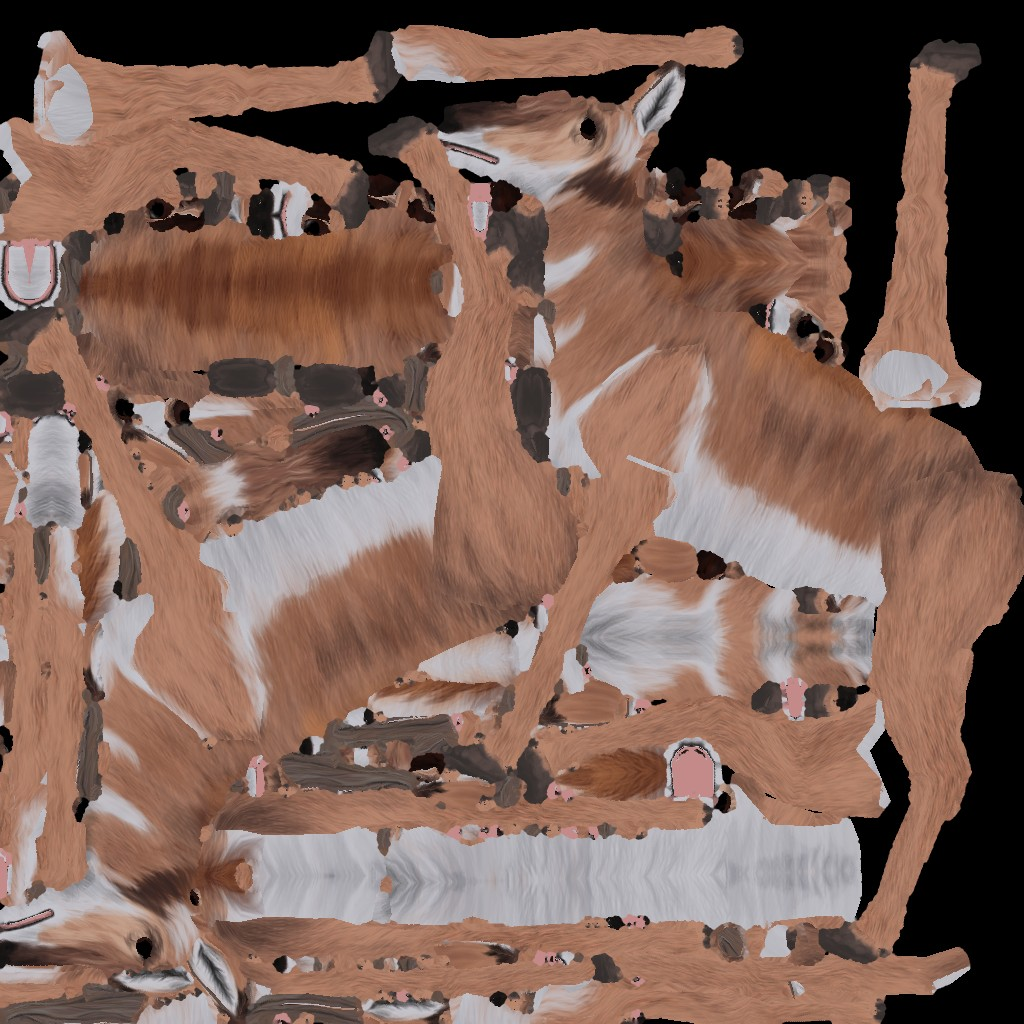
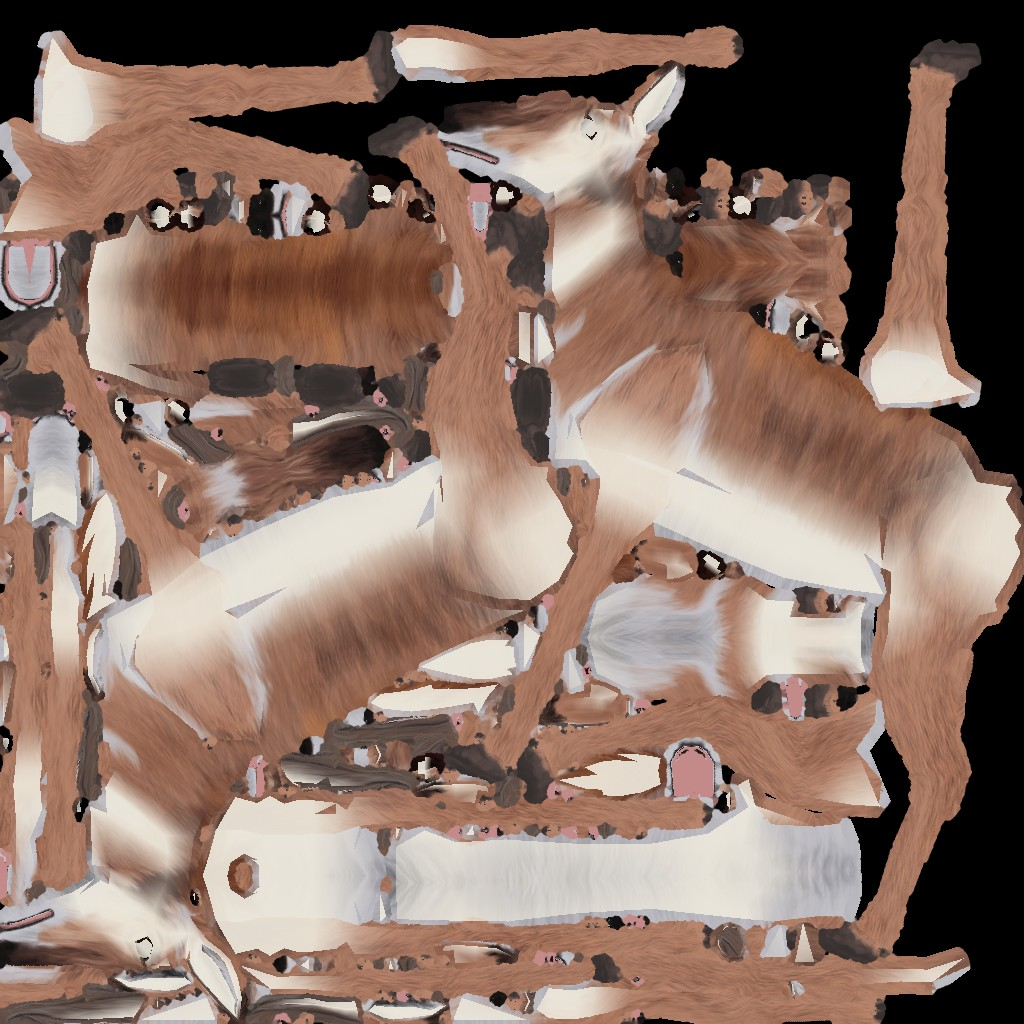
a3: default set is bison, wolf, pronghorn, mule deer (coyote and cougar off until tuned); pronghorn white rump, belly and throat bands painted into the albedo; a3n probe flag

diff --git a/src/render/models/a3.ts b/src/render/models/a3.ts
@@ -31,10 +31,14 @@ export function a3Enabled(): boolean {
   return v === null || v !== '0';
 }
 
-/** The species a3 applies to for this page: `?a3=1` all of them, `?a3=bison,wolf` a list. */
+/** On by default; the coyote and cougar stay off until their gallop is tuned (turn them on with `?a3=all` or by name). */
+export const A3_DEFAULT = ['bison', 'wolf', 'pronghorn', 'muledeer'];
+
+/** The species a3 applies to for this page: no parameter, the default set; `?a3=1` or `all` every species with an asset; `?a3=bison,wolf` a list. */
 function wanted(): string[] {
   if (!a3Enabled()) return [];
-  const v = new URLSearchParams(location.search).get('a3') ?? '1';
+  const v = new URLSearchParams(location.search).get('a3');
+  if (v === null) return A3_DEFAULT;
   return v === '1' || v === 'all' ? A3_SPECIES : v.split(',').filter((s) => A3_SPECIES.includes(s));
 }
 
@@ -61,7 +65,8 @@ async function loadOne(key: string): Promise<void> {
   map.generateMipmaps = true;
   map.minFilter = THREE.LinearMipmapLinearFilter;
   let normalMap: THREE.Texture | null = null;
-  if (meta.normal) {
+  const flags = new URLSearchParams(location.search);
+  if (meta.normal && flags.get('a3n') !== '0') { // (?a3n=0: no normal map, a cost probe)
     normalMap = await load(base + meta.normal);
     normalMap.anisotropy = 8;
   }

diff --git a/tools/label_animal.py b/tools/label_animal.py
@@ -230,9 +230,55 @@ for nm, a, c in arrays:
 idx_off = len(blob)
 blob += tris.astype(np.uint16).reshape(-1).tobytes()
 open(os.path.join(out_dir, sp + '.bin'), 'wb').write(blob)
+
+def paint_albedo(im, regions):
+    """Paint white markings (cfg 'paint') into the albedo: a weight per vertex from its final position and normal, rasterised through the uv
+    triangles (so the marking follows the surface). Used for the pronghorn's rump patch, belly and throat bands, which the source lacks."""
+    sm = lambda a, b, x: np.clip((x - a) / (b - a), 0, 1) ** 2 * (3 - 2 * np.clip((x - a) / (b - a), 0, 1))
+    x, y, z = pos[:, 0], pos[:, 1], pos[:, 2]
+    w = np.zeros(n)
+    for r in regions:
+        k = r['kind']
+        if k == 'rump':
+            w = np.maximum(w, sm(r['x0'], r['x1'], x) * sm(r['y0'], r['y1'], y))
+        elif k == 'belly':
+            w = np.maximum(w, sm(r['y0'], r['y1'], y) * sm(r['xa0'], r['xa1'], x) * sm(r['xb0'], r['xb1'], x) * sm(r.get('yl0', -1), r.get('yl1', -0.9), y))
+        elif k == 'band':
+            ax, ay = r['axis']; px_, py_ = r['origin']
+            t = (x - px_) * ax + (y - py_) * ay
+            under = sm(r.get('n0', 0.45), r.get('n1', 0.0), nrm[:, 1])
+            w = np.maximum(w, sm(r['t0'] - r['soft'], r['t0'], t) * sm(r['t1'] + r['soft'], r['t1'], t) * under)
+    a = np.asarray(im, np.float32) / 255.0
+    W_, H_ = im.size
+    mask = np.zeros((H_, W_), np.float32)
+    uvp = uv / WS if WP else uv
+    for tri in tris:
+        P = np.stack([uvp[tri, 0] * W_, (1 - uvp[tri, 1]) * H_], 1)
+        x0, x1 = int(np.floor(P[:, 0].min())), int(np.ceil(P[:, 0].max()))
+        y0, y1 = int(np.floor(P[:, 1].min())), int(np.ceil(P[:, 1].max()))
+        if x1 <= x0 or y1 <= y0:
+            continue
+        xs, ys = np.meshgrid(np.arange(x0, x1 + 1) + 0.5, np.arange(y0, y1 + 1) + 0.5)
+        d = (P[1, 1] - P[2, 1]) * (P[0, 0] - P[2, 0]) + (P[2, 0] - P[1, 0]) * (P[0, 1] - P[2, 1])
+        if abs(d) < 1e-9:
+            continue
+        l0 = ((P[1, 1] - P[2, 1]) * (xs - P[2, 0]) + (P[2, 0] - P[1, 0]) * (ys - P[2, 1])) / d
+        l1 = ((P[2, 1] - P[0, 1]) * (xs - P[2, 0]) + (P[0, 0] - P[2, 0]) * (ys - P[2, 1])) / d
+        l2 = 1 - l0 - l1
+        inside = (l0 >= -0.02) & (l1 >= -0.02) & (l2 >= -0.02)
+        val = l0 * w[tri[0]] + l1 * w[tri[1]] + l2 * w[tri[2]]
+        xi = np.clip(xs.astype(int), 0, W_ - 1); yi = np.clip(ys.astype(int), 0, H_ - 1)
+        cur = mask[yi, xi]
+        mask[yi, xi] = np.where(inside, np.maximum(cur, val), cur)
+    white = np.array([0.93, 0.91, 0.86], np.float32)
+    a = a * (1 - mask[..., None] * 0.92) + white * (mask[..., None] * 0.92)
+    return Image.fromarray((np.clip(a, 0, 1) * 255 + 0.5).astype(np.uint8))
+
 for kind in ('albedo', 'normal'):
     src = os.path.join(work, f'{sp}_{kind}.png')
     im = Image.open(src).convert('RGB')
+    if kind == 'albedo' and cfg.get('paint'):
+        im = paint_albedo(im, cfg['paint'])
     if kind == 'albedo' and cfg.get('grade'):
         # a mild colour grade of the baked albedo (saturation toward the luminance, a gain): tames a painted source to our coat palette
         g = cfg['grade']
